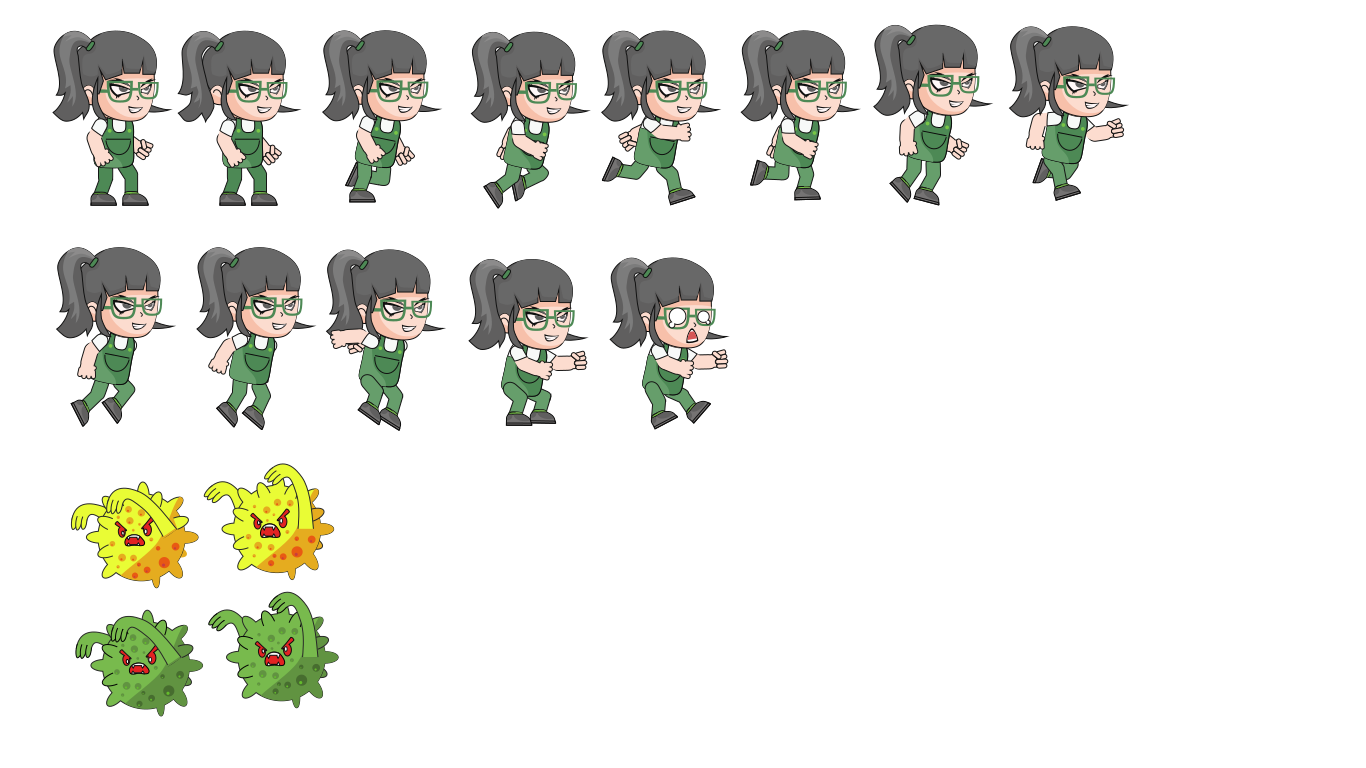
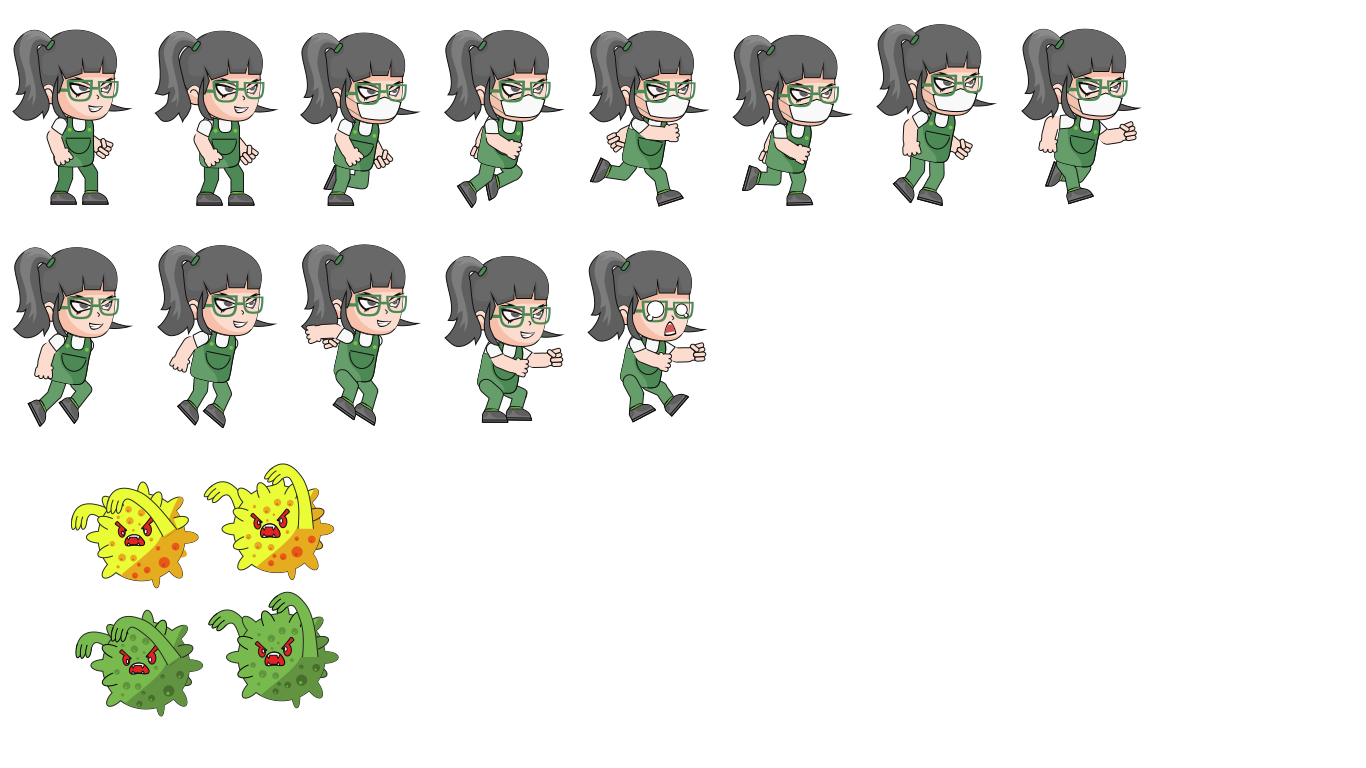
correção posisionamento heroina

Changed region(s): [[0.0, 0.0312, 0.8302, 0.2812], [0.0, 0.3125, 0.5534, 0.5625]]

diff --git a/src/variable.js b/src/variable.js
@@ -12,15 +12,15 @@ let characterImage;
 let matrixCharacter = [
     //[8, 0],
     //[145, 0],
-    [290, 0],
+    [285, 0],
     [430, 0],
-    [560, 0],
-    [700, 0],
-    [840, 0],
-    [970, 0],
-    [560, 0],
-    [840, 0],
-    [970, 0],   
+    [575, 0],
+    [720, 0],
+    [864, 0],
+    [1008, 0],
+    // [560, 0],
+    // [840, 0],
+    // [970, 0],   
     //[8, 220],
     //[145, 220],
 ];

diff --git a/src/app.js b/src/app.js
@@ -6,7 +6,7 @@ function setup() {
      * Scenario
      */
     scenario = new Scenario(scenarioImage, 30);
-    character = new Character(matrixCharacter, characterImage, -30, 50, 170, 200, 170, 210);
+    character = new Character(matrixCharacter, characterImage, 10, 50, 130, 210, 130, 210);
     enemyGreen = new Enemy(enemyGreenMatrix, enemyGreen, width - 50, 10, 200, 200, 200, 200, 15);
 }
 
